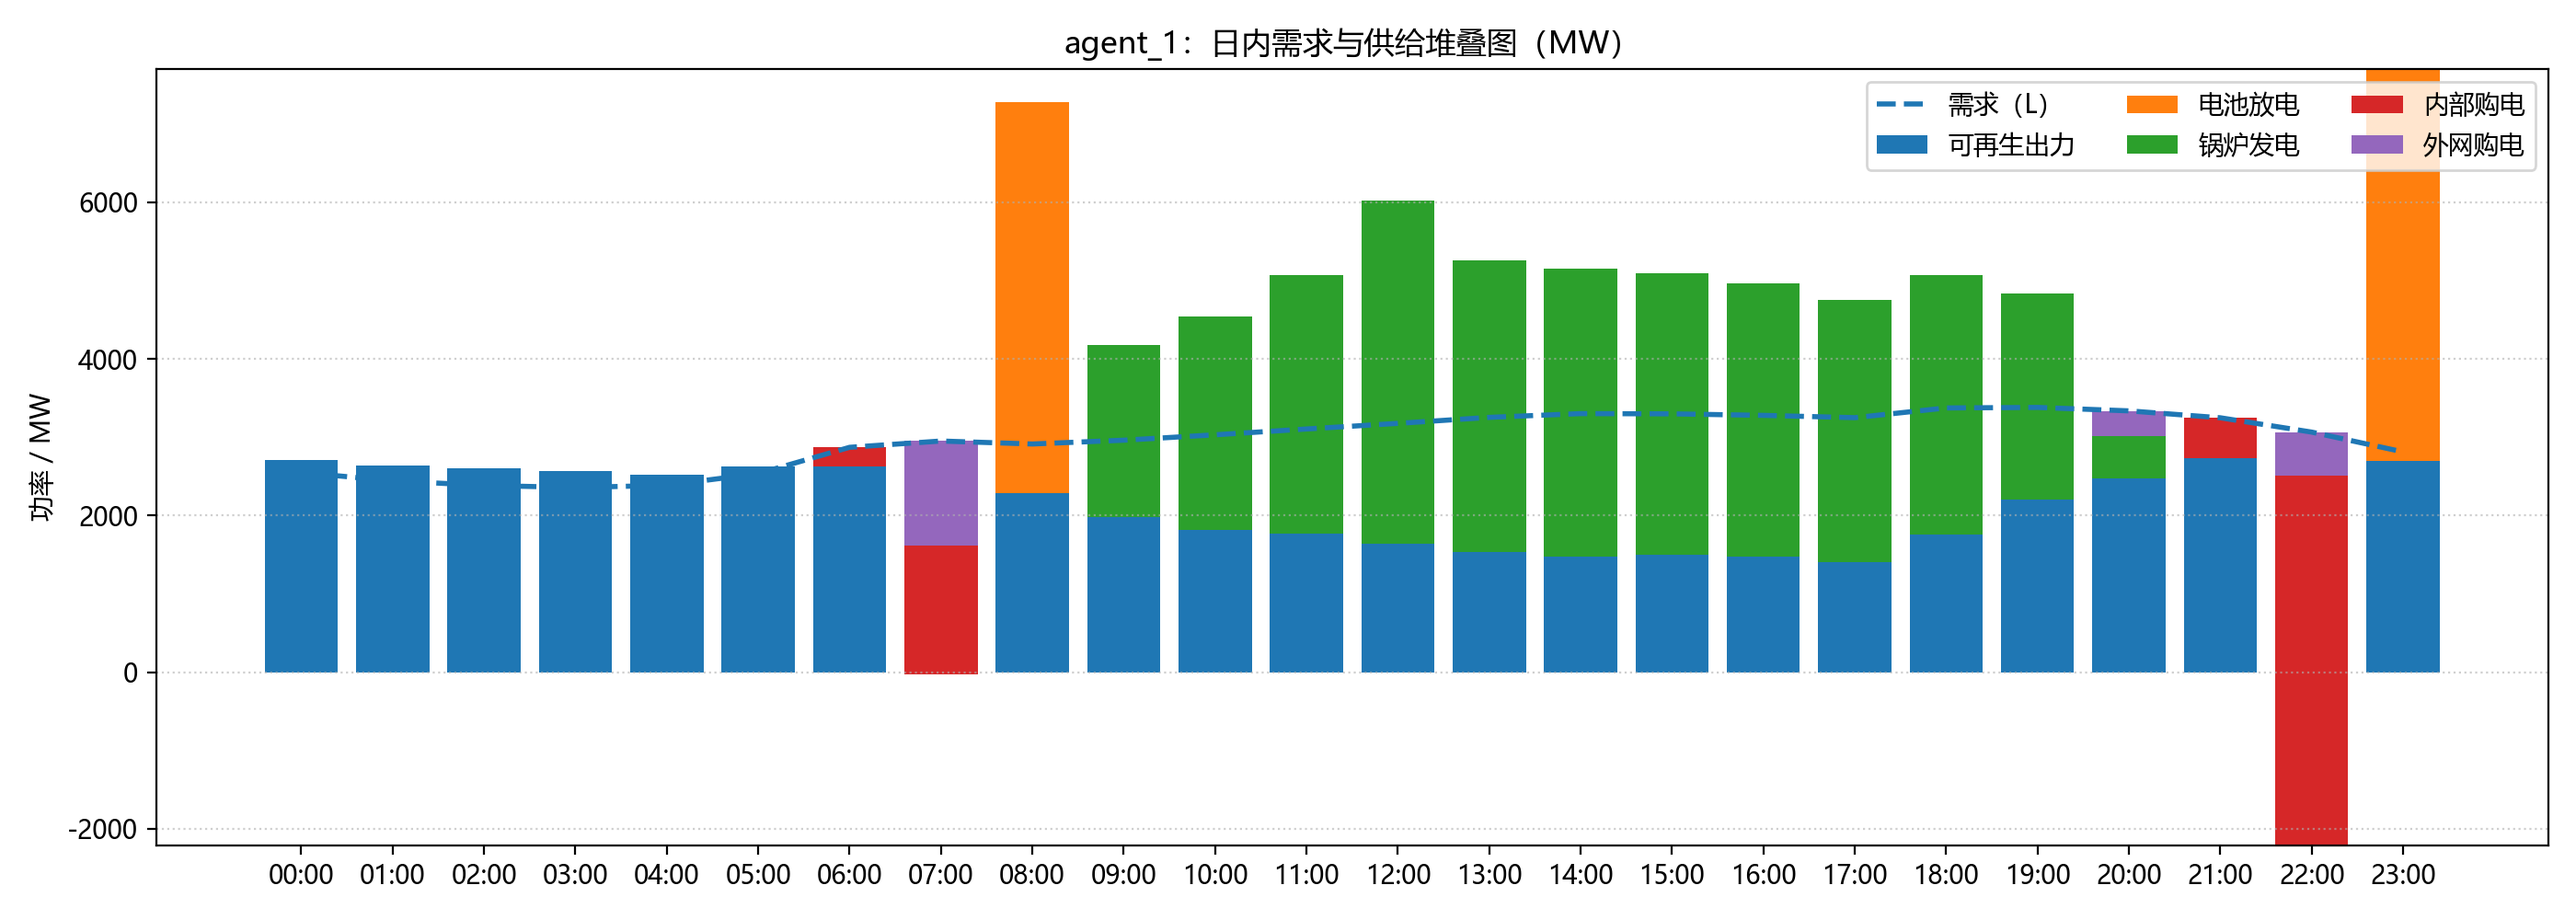
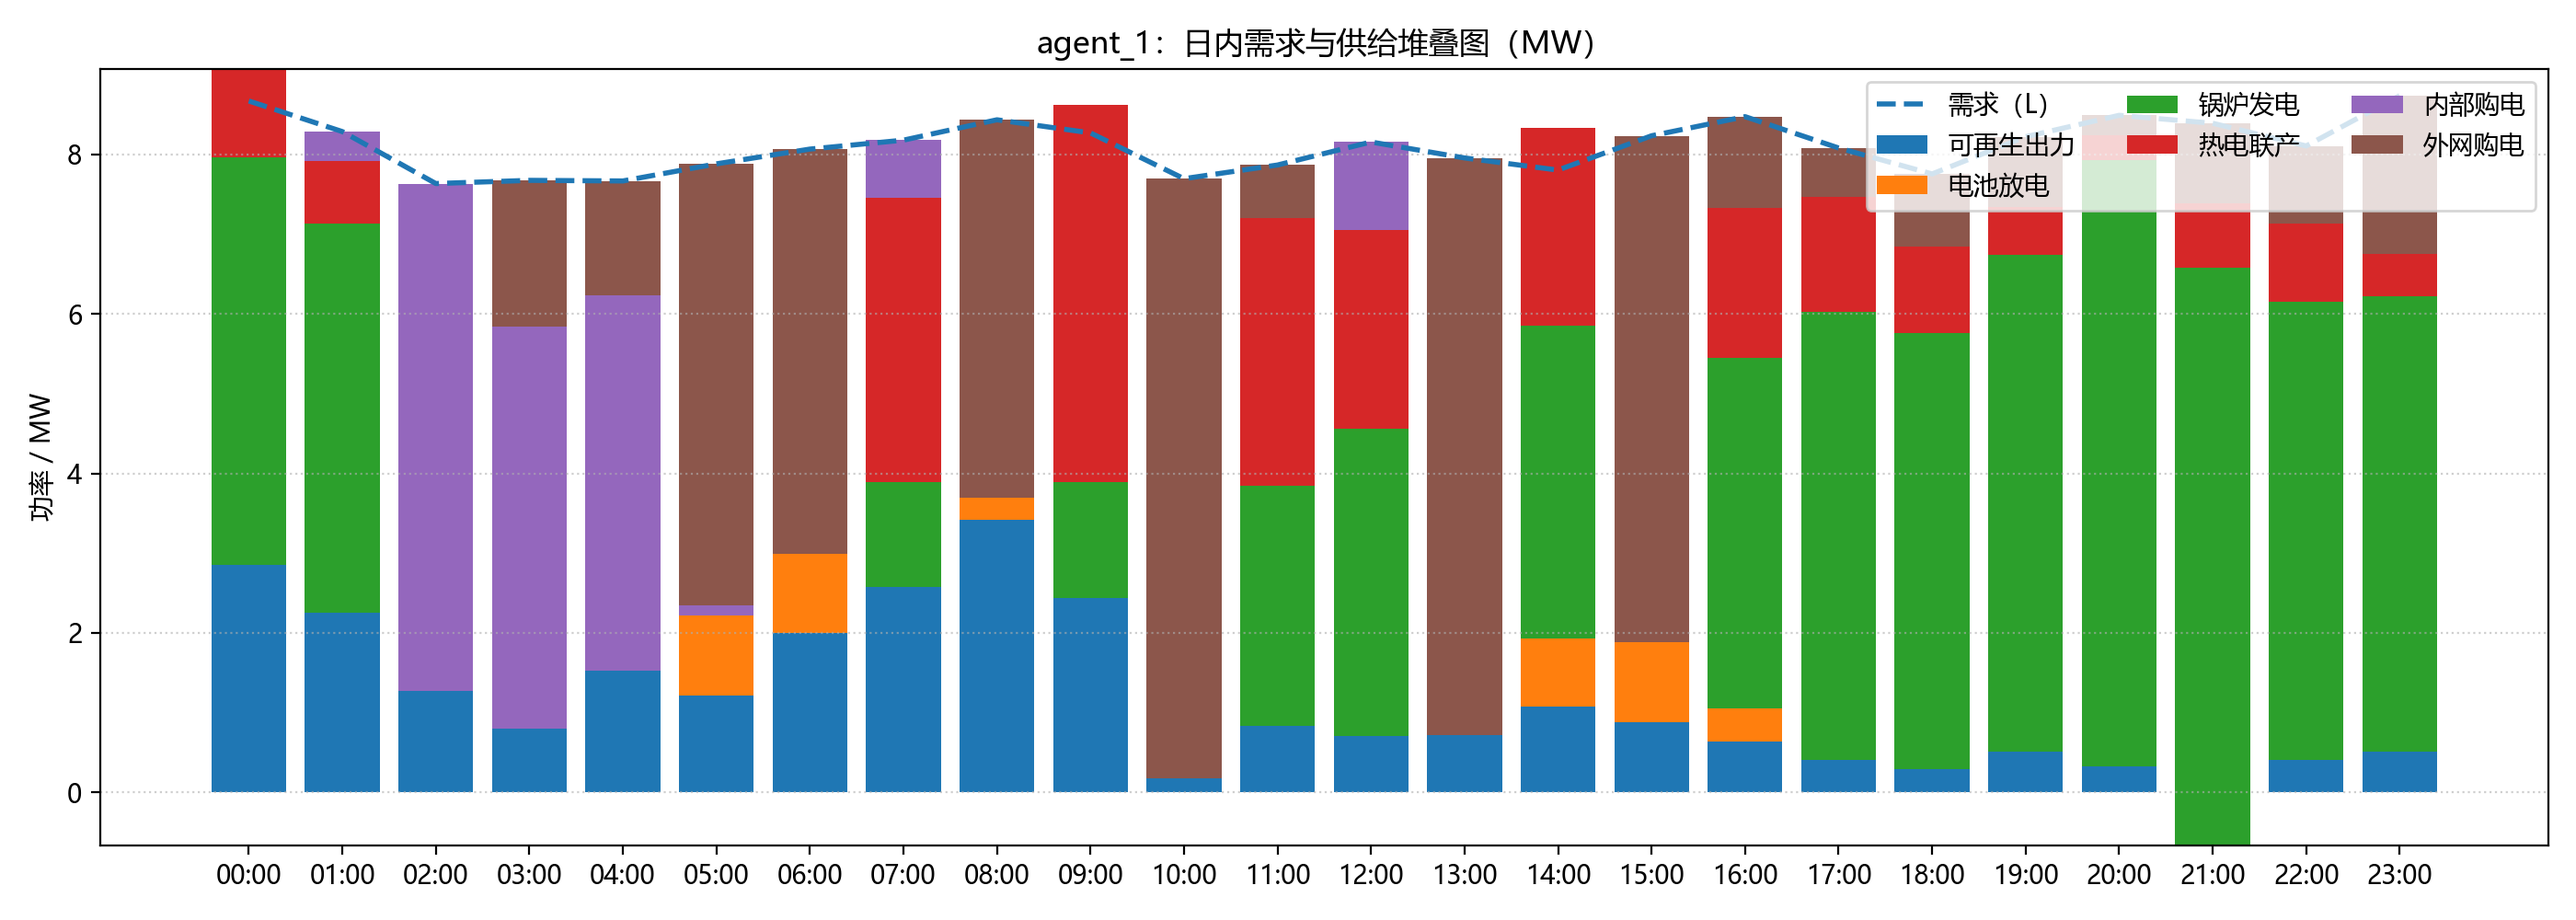
修改maddpg

diff --git a/flcore/utils/test_model.py b/flcore/utils/test_model.py
@@ -31,7 +31,10 @@ from typing import Dict, List, Tuple
 import argparse
 
 from flcore.Env.multi_env import MultiBatteryCoordinator
-from data.load_data import load_power_data
+from flcore.train.train_common import (
+    default_presets, load_series_split, build_envs,
+    infer_dims, list_by_agents, flatten_obs, flatten_actions
+)
 from flcore.algorithm.IDDPG import IDDPG
 from flcore.algorithm.MADDPG import MADDPG
 
@@ -68,6 +71,7 @@ def rollout_one_day_and_collect(env: MultiBatteryCoordinator,
         'renew': np.zeros(hours, dtype=np.float32),
         'bat_dis': np.zeros(hours, dtype=np.float32),
         'boiler': np.zeros(hours, dtype=np.float32),
+        'P_CHP_e': np.zeros(hours, dtype=np.float32),
         'market_buy': np.zeros(hours, dtype=np.float32),
         'grid_buy': np.zeros(hours, dtype=np.float32),
         'surplus_dump': np.zeros(hours, dtype=np.float32),
@@ -85,8 +89,9 @@ def rollout_one_day_and_collect(env: MultiBatteryCoordinator,
             L += float(inf.get('G_demand', 0.0))
             R += float(inf.get('newpower_gen', 0.0))
             p_bat = float(inf.get('p_bat', 0.0))
+            P_CHP_e = float(inf.get('P_CHP_e', 0.0))
             bat_dis += max(0.0, p_bat)
-            boiler += max(0.0, float(inf.get('bioler_gen', 0.0)))
+            boiler += max(0.0, float(inf.get('P_boiler_e', 0.0)))
             m_buy_MWh += float(inf.get('market_buy_MWh', 0.0))
             grid_buy_MWh += float(inf.get('grid_buy_MWh', 0.0))
             dump_MWh += float(inf.get('surplus_dump_MWh', 0.0))
@@ -95,6 +100,7 @@ def rollout_one_day_and_collect(env: MultiBatteryCoordinator,
         agg['renew'][h] = R
         agg['bat_dis'][h] = bat_dis
         agg['boiler'][h] = boiler
+        agg['P_CHP_e'][h] = P_CHP_e
         agg['market_buy'][h] = m_buy_MWh / max(1e-9, dt_hours)
         agg['grid_buy'][h] = grid_buy_MWh / max(1e-9, dt_hours)
         agg['surplus_dump'][h] = dump_MWh / max(1e-9, dt_hours)
@@ -131,7 +137,7 @@ def rollout_one_day_per_agent(env: MultiBatteryCoordinator,
 
     hours = 24
     per = {a: {k: np.zeros(hours, dtype=np.float32) for k in [
-        'demand','renew','bat_dis','boiler','market_buy','grid_buy','surplus_dump']}
+        'demand','renew','bat_dis','boiler','P_CHP_e','market_buy','grid_buy','surplus_dump']}
         for a in agents}
 
     for h in range(hours):
@@ -145,7 +151,8 @@ def rollout_one_day_per_agent(env: MultiBatteryCoordinator,
             per[aid]['renew'][h] = float(inf.get('newpower_gen', 0.0))
             p_bat = float(inf.get('p_bat', 0.0))
             per[aid]['bat_dis'][h] =  p_bat
-            per[aid]['boiler'][h] = max(0.0, float(inf.get('bioler_gen', 0.0)))
+            per[aid]['boiler'][h] = max(0.0, float(inf.get('P_boiler_e', 0.0)))
+            per[aid]['P_CHP_e'][h] = max(0.0, float(inf.get('P_CHP_e', 0.0)))
             per[aid]['market_buy'][h] = float(inf.get('market_buy_MWh', 0.0)) / max(1e-9, dt_hours)
             per[aid]['grid_buy'][h] = float(inf.get('grid_buy_MWh', 0.0)) / max(1e-9, dt_hours)
             per[aid]['surplus_dump'][h] = float(inf.get('surplus_dump_MWh', 0.0)) / max(1e-9, dt_hours)
@@ -169,15 +176,17 @@ def plot_daily_stack(agg: Dict[str, np.ndarray],
     s1 = agg['renew']
     s2 = agg['bat_dis']
     s3 = agg['boiler']
-    s4 = agg['market_buy']
-    s5 = agg['grid_buy']
+    s4 = agg['P_CHP_e']
+    s5 = agg['market_buy']
+    s6 = agg['grid_buy']
 
     fig, ax = plt.subplots(figsize=(14, 5))
     ax.bar(x, s1, label='可再生出力', width=0.8)
     ax.bar(x, s2, bottom=s1, label='电池放电', width=0.8)
     ax.bar(x, s3, bottom=s1 + s2, label='锅炉发电', width=0.8)
-    ax.bar(x, s4, bottom=s1 + s2 + s3, label='内部购电', width=0.8)
-    ax.bar(x, s5, bottom=s1 + s2 + s3 + s4, label='外网购电', width=0.8)
+    ax.bar(x, s4, bottom=s1 + s2 + s3, label='热电联产', width=0.8)
+    ax.bar(x, s5, bottom=s1 + s2 + s3 + s4, label='内部购电', width=0.8)
+    ax.bar(x, s6, bottom=s1 + s2 + s3 + s4 + s5, label='外网购电', width=0.8)
     ax.plot(x, agg['demand'], linestyle='--', linewidth=2.0, label='需求（L）')
 
     ax.set_xticks(x)
@@ -200,14 +209,15 @@ def plot_daily_stack_per_agent(per: Dict[str, Dict[str, np.ndarray]],
     for aid, dd in per.items():
         hours = len(dd['demand'])
         x = np.arange(hours)
-        s1, s2, s3, s4, s5 = dd['renew'], dd['bat_dis'], dd['boiler'], dd['market_buy'], dd['grid_buy']
+        s1, s2, s3, s4, s5 ,s6 = dd['renew'], dd['bat_dis'], dd['boiler'], dd['P_CHP_e'],dd['market_buy'], dd['grid_buy']
 
         fig, ax = plt.subplots(figsize=(14, 5))
         ax.bar(x, s1, label='可再生出力', width=0.8)
         ax.bar(x, s2, bottom=s1, label='电池放电', width=0.8)
         ax.bar(x, s3, bottom=s1 + s2, label='锅炉发电', width=0.8)
-        ax.bar(x, s4, bottom=s1 + s2 + s3, label='内部购电', width=0.8)
-        ax.bar(x, s5, bottom=s1 + s2 + s3 + s4, label='外网购电', width=0.8)
+        ax.bar(x, s4, bottom=s1 + s2 + s3, label='热电联产', width=0.8)
+        ax.bar(x, s5, bottom=s1 + s2 + s3 + s4, label='内部购电', width=0.8)
+        ax.bar(x, s6, bottom=s1 + s2 + s3 + s4 + s5, label='外网购电', width=0.8)
         ax.plot(x, dd['demand'], linestyle='--', linewidth=2.0, label='需求（L）')
 
         ax.set_xticks(x)
@@ -239,7 +249,7 @@ def plot_daily_stack_per_agent_grid(per: Dict[str, Dict[str, np.ndarray]],
     fig.suptitle(title)
 
     # 统一图例元素名
-    legend_labels = ['可再生出力','电池放电','锅炉发电','内部购电','外网购电','需求（L）']
+    legend_labels = ['可再生出力','电池放电','锅炉发电','热点联产','内部购电','外网购电','需求（L）']
     handles_sample = None
 
     for idx, aid in enumerate(agent_ids):
@@ -248,17 +258,18 @@ def plot_daily_stack_per_agent_grid(per: Dict[str, Dict[str, np.ndarray]],
         dd = per[aid]
         hours = len(dd['demand'])
         x = np.arange(hours)
-        s1, s2, s3, s4, s5 = dd['renew'], dd['bat_dis'], dd['boiler'], dd['market_buy'], dd['grid_buy']
+        s1, s2, s3, s4, s5 ,s6= dd['renew'], dd['bat_dis'], dd['boiler'], dd['P_CHP_e'],dd['market_buy'], dd['grid_buy']
 
         h1 = ax.bar(x, s1, width=0.8)
         h2 = ax.bar(x, s2, bottom=s1, width=0.8)
         h3 = ax.bar(x, s3, bottom=s1 + s2, width=0.8)
-        h4 = ax.bar(x, s4, bottom=s1 + s2 + s3, width=0.8)
+        h4 = ax.bar(x, s4, bottom=s1 + s2 + s3,  width=0.8)
         h5 = ax.bar(x, s5, bottom=s1 + s2 + s3 + s4, width=0.8)
+        h6 = ax.bar(x, s6, bottom=s1 + s2 + s3 + s4 + s5, width=0.8)
         l6, = ax.plot(x, dd['demand'], linestyle='--', linewidth=2.0)
 
         if handles_sample is None:
-            handles_sample = [h1, h2, h3, h4, h5, l6]
+            handles_sample = [h1, h2, h3, h4, h5, h6,l6]
 
         ax.set_xticks(x)
         ax.set_xticklabels([f"{h:02d}:00" for h in range(hours)])
@@ -286,8 +297,8 @@ def plot_daily_stack_per_agent_grid(per: Dict[str, Dict[str, np.ndarray]],
 # Main entry: evaluation + plot
 # ----------------------------
 def test_model_and_plot(algo:str="iddpg",
-                        train_days: int = 31,
-                        test_days: int = 1,
+                        train: int = 31,
+                        test: int = 1,
                         plot_day_offset: int = 0,
                         gamma: float = 0.99,
                         tau: float = 0.01,
@@ -299,38 +310,15 @@ def test_model_and_plot(algo:str="iddpg",
     3) 从测试集选定的一天（plot_day_offset）绘制 24 小时堆叠柱图
     """
     # === 数据切分 ===
-    data = load_power_data("./data/GridSet_no_pred.csv")
-    T = len(data[0]["P"])  # 每个园区长度一致
-
-    train_idx = train_days * 24
-    test_idx = (train_days + test_days) * 24
-
-    train_series = [{k: v[:train_idx] for k, v in d.items()} for d in data]
-    test_series = [{k: v[train_idx:test_idx] for k, v in d.items()} for d in data]
-
-    # === 环境 ===
-    env = MultiBatteryCoordinator(
-        train_series,
-        n_agents=4,
-        dt_hours=1.0,
-        E_bat_MWh=10000.0,
-        P_bat_max_MW=5000.0,
-        eta_ch=0.95, eta_dis=0.95,
-        soc_min=0.1, soc_max=0.9, soc_init=0.1,
-        deg_cost_per_MW=0.1,
-        obs_norm=True,
+    #data = load_power_data("./data/GridSet_no_pred.csv")
+    presets = default_presets()  # 'weekly' / 'fast_debug' / 'monthly'
+    train_series, test_series, T, train_idx, test_idx = load_series_split(
+        path1="./data/IES_data/G_demand.csv",
+        path2="./data/IES_data/H_demand.csv",
+        train_days=train,
+        test_days=test
     )
-    test_env = MultiBatteryCoordinator(
-        test_series,
-        n_agents=4,
-        dt_hours=1.0,
-        E_bat_MWh=10000.0,
-        P_bat_max_MW=5000.0,
-        eta_ch=0.95, eta_dis=0.95,
-        soc_min=0.1, soc_max=0.9, soc_init=0.1,
-        deg_cost_per_MW=0.1,
-        obs_norm=True,
-    )
+    env, test_env = build_envs(train_series, test_series, presets.env_kwargs)
 
     # === Agent ===
     obs, _ = test_env.reset()
@@ -396,7 +384,7 @@ if __name__ == "__main__":
     # 添加参数
     parser.add_argument('--algo', type=str, default='maddpg',
                         help='算法名称，默认是maddpg')
-    parser.add_argument('--train_days', type=int, default=31 * 12,
+    parser.add_argument('--train_days', type=int, default=30 * 11,
                         help='训练天数，默认是31*12')
     parser.add_argument('--test_days', type=int, default=4,
                         help='测试天数，默认是4')
@@ -409,8 +397,8 @@ if __name__ == "__main__":
     # 调用函数并传递参数
     _,re=test_model_and_plot(
         algo=args.algo,
-        train_days=args.train_days,
-        test_days=args.test_days,
+        train=args.train_days,
+        test=args.test_days,
         plot_day_offset=args.plot_day_offset
     )
     print(sum(re))

diff --git a/flcore/train/train_maddpg.py b/flcore/train/train_maddpg.py
@@ -9,9 +9,13 @@ import time
 
 def train_maddpg(episodes=1000,train=7,test=1,Federated=True,):
     # --- 统一使用公共预设 ---
-    presets = default_presets()
+    # 使用同一套公共预设
+    presets = default_presets()  # 'weekly' / 'fast_debug' / 'monthly'
     train_series, test_series, T, train_idx, test_idx = load_series_split(
-        "./data/GridSet_no_pred.csv", train_days=train, test_days=test
+        path1="./data/IES_data/G_demand.csv",
+        path2="./data/IES_data/H_demand.csv",
+        train_days=train,
+        test_days=test
     )
     env, test_env = build_envs(train_series, test_series, presets.env_kwargs)
 
@@ -31,11 +35,23 @@ def train_maddpg(episodes=1000,train=7,test=1,Federated=True,):
 
         ep_info = {
             a: {
-                "G_demand_MWH": 0.0, "p_bat_MWh": 0.0,
-                "market_buy_MWh": 0.0, "market_sell_MWh": 0.0, "grid_buy_MWh": 0.0,
-                "newpower_gen_MWh": 0.0, "bioler_gen_MWh": 0.0,
-                "soc_cost": 0.0, "boiler_cost": 0.0, "p_grid_buy": 0.0,
-                "elec_cost": 0.0, "total_cost": 0.0
+                "G_demand_MWH": 0.0,
+                "p_bat_MWh": 0.0,
+                "market_buy_MWh": 0.0,
+                "market_sell_MWh": 0.0,
+                "newpower_MWh": 0.0,
+                "e_grid_buy_MWh": 0.0,
+                "P_boiler_e_MWh": 0.0,
+                "P_CHP_e_MWh": 0.0,
+                "h_demand_MWH": 0.0,
+                "h_grid_buy_MWh": 0.0,
+                "P_CHP_h_MWh": 0.0,
+                "P_HB_h_MWh": 0.0,
+                "soc_cost": 0.0,
+                "boiler_cost": 0.0,
+                "CHP_cost": 0.0,
+                "HB_cost": 0.0,
+                "market_cost": 0.0,
             } for a in range(len(agents))
         }
 
@@ -72,19 +88,26 @@ def train_maddpg(episodes=1000,train=7,test=1,Federated=True,):
 
             for idx, a in enumerate(agents):
                 info = info_dict[a]
+                # 保留你原来的统计口径键名
                 ep_info[idx]["G_demand_MWH"] += info.get("G_demand", 0.0)
                 ep_info[idx]["market_buy_MWh"] += info.get("market_buy_MWh", 0.0)
                 ep_info[idx]["market_sell_MWh"] += info.get("market_sell_MWh", 0.0)
-                ep_info[idx]["newpower_gen_MWh"] += info.get("newpower_gen", 0.0)
-                ep_info[idx]["bioler_gen_MWh"] += info.get("bioler_gen", 0.0)
-                ep_info[idx]["grid_buy_MWh"] += info.get("grid_buy_MWh", 0.0)
+                ep_info[idx]["P_boiler_e_MWh"] += info.get("P_boiler_e", 0.0)
+                ep_info[idx]["P_CHP_e_MWh"] += info.get("P_CHP_e", 0.0)
                 ep_info[idx]["p_bat_MWh"] += info.get("p_bat", 0.0)
-                ep_info[idx]["p_grid_buy"] += info.get("p_grid_buy", 0.0)
+                ep_info[idx]["newpower_MWh"] += info.get("newpower_gen", 0.0)
+                ep_info[idx]["e_grid_buy_MWh"] += info.get("grid_buy_MWh", 0.0)
+
+                ep_info[idx]["h_demand_MWH"] += info.get("H_demand", 0.0)
+                ep_info[idx]["P_CHP_h_MWh"] += info.get("P_CHP_h", 0.0)
+                ep_info[idx]["P_HB_h_MWh"] += info.get("P_HB_h", 0.0)
+                ep_info[idx]["h_grid_buy_MWh"] += info.get("h_grid_buy", 0.0)
+
                 ep_info[idx]["soc_cost"] += info.get("soc_cost", 0.0)
                 ep_info[idx]["boiler_cost"] += info.get("boiler_cost", 0.0)
-                ep_info[idx]["elec_cost"] += info.get("elec_cost", 0.0)
-                ep_info[idx]["total_cost"] += info.get("total_cost", 0.0)
-
+                ep_info[idx]["CHP_cost"] += info.get("CHP_cost", 0.0)
+                ep_info[idx]["HB_cost"] += info.get("HB_cost", 0.0)
+                ep_info[idx]["market_cost"] += info.get("market_cashflow", 0.0)
             if all(done_list):
                 break
 

diff --git a/flcore/algorithm/MADDPG.py b/flcore/algorithm/MADDPG.py
@@ -1,6 +1,7 @@
 
 import copy
 import torch
+import os
 import torch.nn as nn
 import torch.optim as optim
 import torch.nn.functional as F
@@ -278,11 +279,15 @@ class MADDPG:
 
     # 保存 / 加载（对齐 MADDPG）
     def save(self, prefix="maddpg",Fed=False):
+        file_path = f"./model_pth/{prefix}"
+        if not os.path.exists(file_path):
+            os.makedirs(file_path)
         for i in range(self.n_agents):
-            torch.save(self.actors[i].state_dict(), f"./model_pth/{prefix}/{Fed}_actor_{i}.pth")
-            torch.save(self.critics[i].state_dict(), f"./model_pth/{prefix}/{Fed}_critic_{i}.pth")
+            torch.save(self.actors[i].state_dict(), f"{file_path}/{Fed}_actor_{i}.pth")
+            torch.save(self.critics[i].state_dict(), f"{file_path}/{Fed}_critic_{i}.pth")
+
 
     def load(self, prefix="maddpg",Fed=False):
-        for i in range(self.n_agents):
-            self.actors[i].load_state_dict(torch.load(f"./model_pth/{prefix}/{Fed}_actor_{i}.pth", map_location=device,weights_only=True))
-            self.critics[i].load_state_dict(torch.load(f"./model_pth/{prefix}/{Fed}_critic_{i}.pth", map_location=device,weights_only=True))
+            for i in range(self.n_agents):
+                self.actors[i].load_state_dict(torch.load(f"./model_pth/{prefix}/{Fed}_actor_{i}.pth", map_location=device,weights_only=True))
+                self.critics[i].load_state_dict(torch.load(f"./model_pth/{prefix}/{Fed}_critic_{i}.pth", map_location=device,weights_only=True))

diff --git a/flcore/algorithm/IDDPG.py b/flcore/algorithm/IDDPG.py
@@ -1,6 +1,7 @@
 # -*- coding: utf-8 -*-
 import copy
 import torch
+import os
 import torch.nn as nn
 import torch.optim as optim
 import torch.nn.functional as F
@@ -233,9 +234,12 @@ class IDDPG:
 
     # 保存 / 加载（对齐 MADDPG）
     def save(self, prefix="iddpg",Fed=False):
+        file_path = f"./model_pth/{prefix}"
+        if not os.path.exists(file_path):
+            os.makedirs(file_path)
         for i in range(self.n_agents):
-            torch.save(self.actors[i].state_dict(), f"./model_pth/{prefix}/{Fed}_actor_{i}.pth")
-            torch.save(self.critics[i].state_dict(), f"./model_pth/{prefix}/{Fed}_critic_{i}.pth")
+            torch.save(self.actors[i].state_dict(), f"{file_path}/{Fed}_actor_{i}.pth")
+            torch.save(self.critics[i].state_dict(), f"{file_path}/{Fed}_critic_{i}.pth")
 
     def load(self, prefix="iddpg",Fed=False):
         for i in range(self.n_agents):

diff --git a/main.py b/main.py
@@ -23,8 +23,8 @@ def draw_result(rewards_record):
 
 if __name__ == "__main__":
     #re1,test_re = train_maddpg(episodes=100,train = 7  , test = 1 ,Federated = True)
-    re1, test_re = train_iddpg(episodes=500, train=30 *11 , test=1, Federated=False)
-    re2, test_re = train_iddpg(episodes=50,train = 2  , test = 1 ,Federated = True)
+    re1, test_re = train_maddpg(episodes=5, train = 1 , test = 1, Federated = False)
+    re2, test_re = train_maddpg(episodes=5, train = 1 , test = 1 ,Federated = True)
     re1 = np.array(re1)
     re1 =re1.T
     re2 = np.array(re2)
